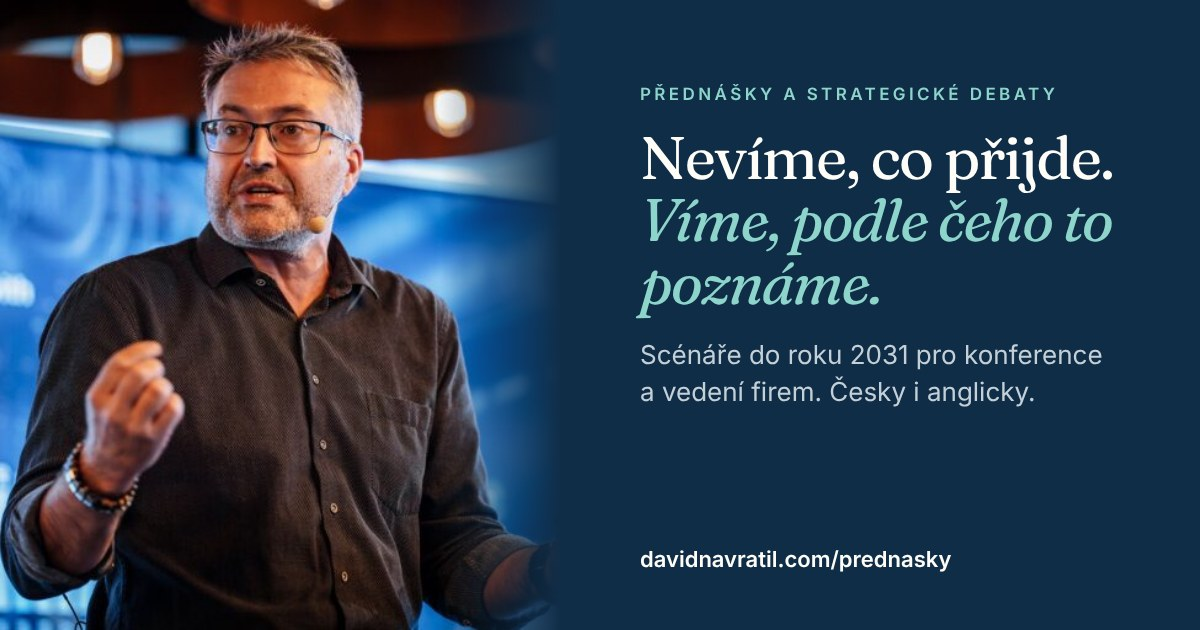
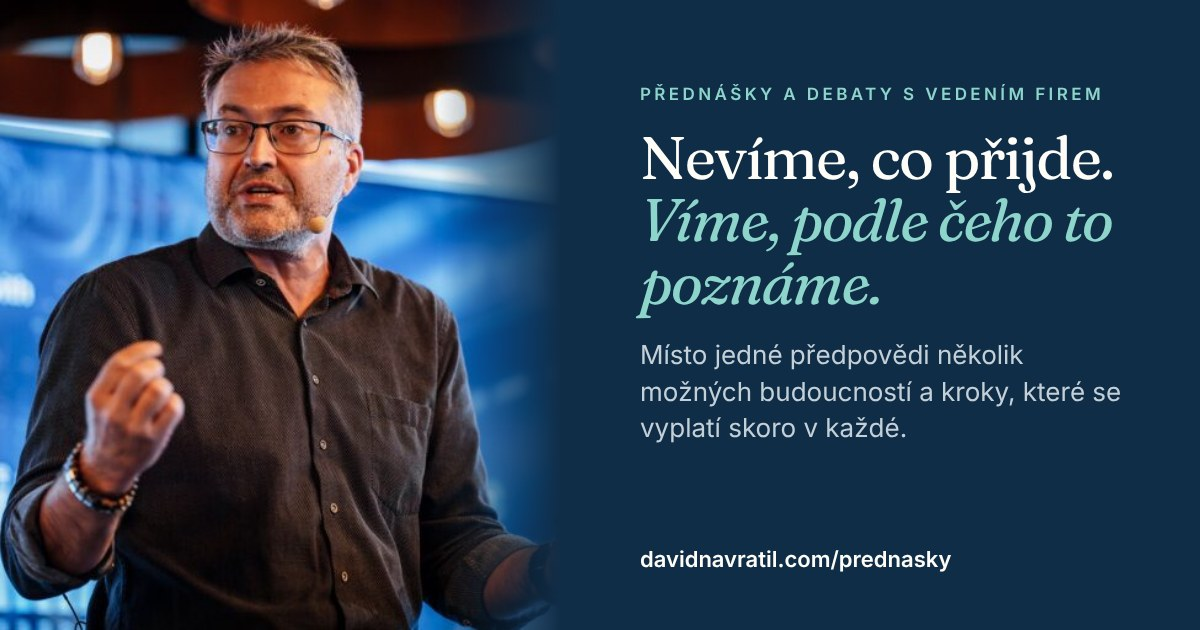
Náhledy pro sdílení: texty přepsané (druhá verze schválená Davidem)
Claude-Session: https://claude.ai/code/session_01ABcnJ5te4o91AhyLXrbFZB

Changed region(s): [[0.5242, 0.5429, 0.9558, 0.6937], [0.6783, 0.1206, 0.925, 0.181]]

diff --git a/obsah/og/render.py b/obsah/og/render.py
@@ -43,16 +43,16 @@ STRANKY = {
   <div style="position:absolute;left:72px;top:92px;width:560px">
     <div class=eyebrow>Megatrendy · přednášky · analýzy</div>
     <h1 style="font-size:66px">Mapa světa, <em>který přestal být přehledný</em></h1>
-    <p>76&nbsp;sil do roku 2031. Každé číslo se zdrojem, u&nbsp;každé nejistoty předem dané ukazatele.</p>
+    <p>76&nbsp;sil do roku 2031. U&nbsp;každého čísla zdroj, u&nbsp;každé nejistoty test, podle kterého poznám, že se mýlím.</p>
   </div>
   <div class=url style="left:72px;bottom:58px">David Navrátil <span class=who>· davidnavratil.com</span></div>"""),
  'og-prednasky': page(f"""
   <div style="position:absolute;left:0;top:0;width:560px;height:630px;background:url({b64('foto-gesto.jpg','image/jpeg')}) 46% 50%/auto 100% no-repeat"></div>
   <div style="position:absolute;left:440px;top:0;width:121px;height:630px;background:linear-gradient(90deg,rgba(16,45,71,0),#102d47)"></div>
   <div style="position:absolute;left:640px;top:84px;width:500px">
-    <div class=eyebrow>Přednášky a strategické debaty</div>
+    <div class=eyebrow>Přednášky a debaty s vedením firem</div>
     <h1 style="font-size:60px">Nevíme, co přijde. <em>Víme, podle čeho to poznáme.</em></h1>
-    <p>Scénáře do roku 2031 pro konference a&nbsp;vedení firem. Česky i&nbsp;anglicky.</p>
+    <p>Místo jedné předpovědi několik možných budoucností a&nbsp;kroky, které se vyplatí skoro v&nbsp;každé.</p>
   </div>
   <div class=url style="left:640px;bottom:58px">davidnavratil.com/prednasky</div>"""),
  'og-pro-poradatele': page(f"""
@@ -60,8 +60,8 @@ STRANKY = {
   <div style="position:absolute;left:440px;top:0;width:121px;height:630px;background:linear-gradient(90deg,rgba(16,45,71,0),#102d47)"></div>
   <div style="position:absolute;left:640px;top:96px;width:500px">
     <div class=eyebrow>Pro pořadatele a média</div>
-    <h1 style="font-size:60px">Všechno pro vaši akci <em>na jedné stránce</em></h1>
-    <p>Bio ve třech délkách, úvod pro moderátora, fotky ke stažení a&nbsp;technika.</p>
+    <h1 style="font-size:58px">Co po řečníkovi obvykle <em>sháníte <span style="white-space:nowrap">e-mailem</span></em></h1>
+    <p>Bio ve třech délkách, úvod pro moderátora, fotky a&nbsp;technické nároky. Na jedné stránce.</p>
   </div>
   <div class=url style="left:640px;bottom:58px">davidnavratil.com/pro-poradatele</div>"""),
 }
